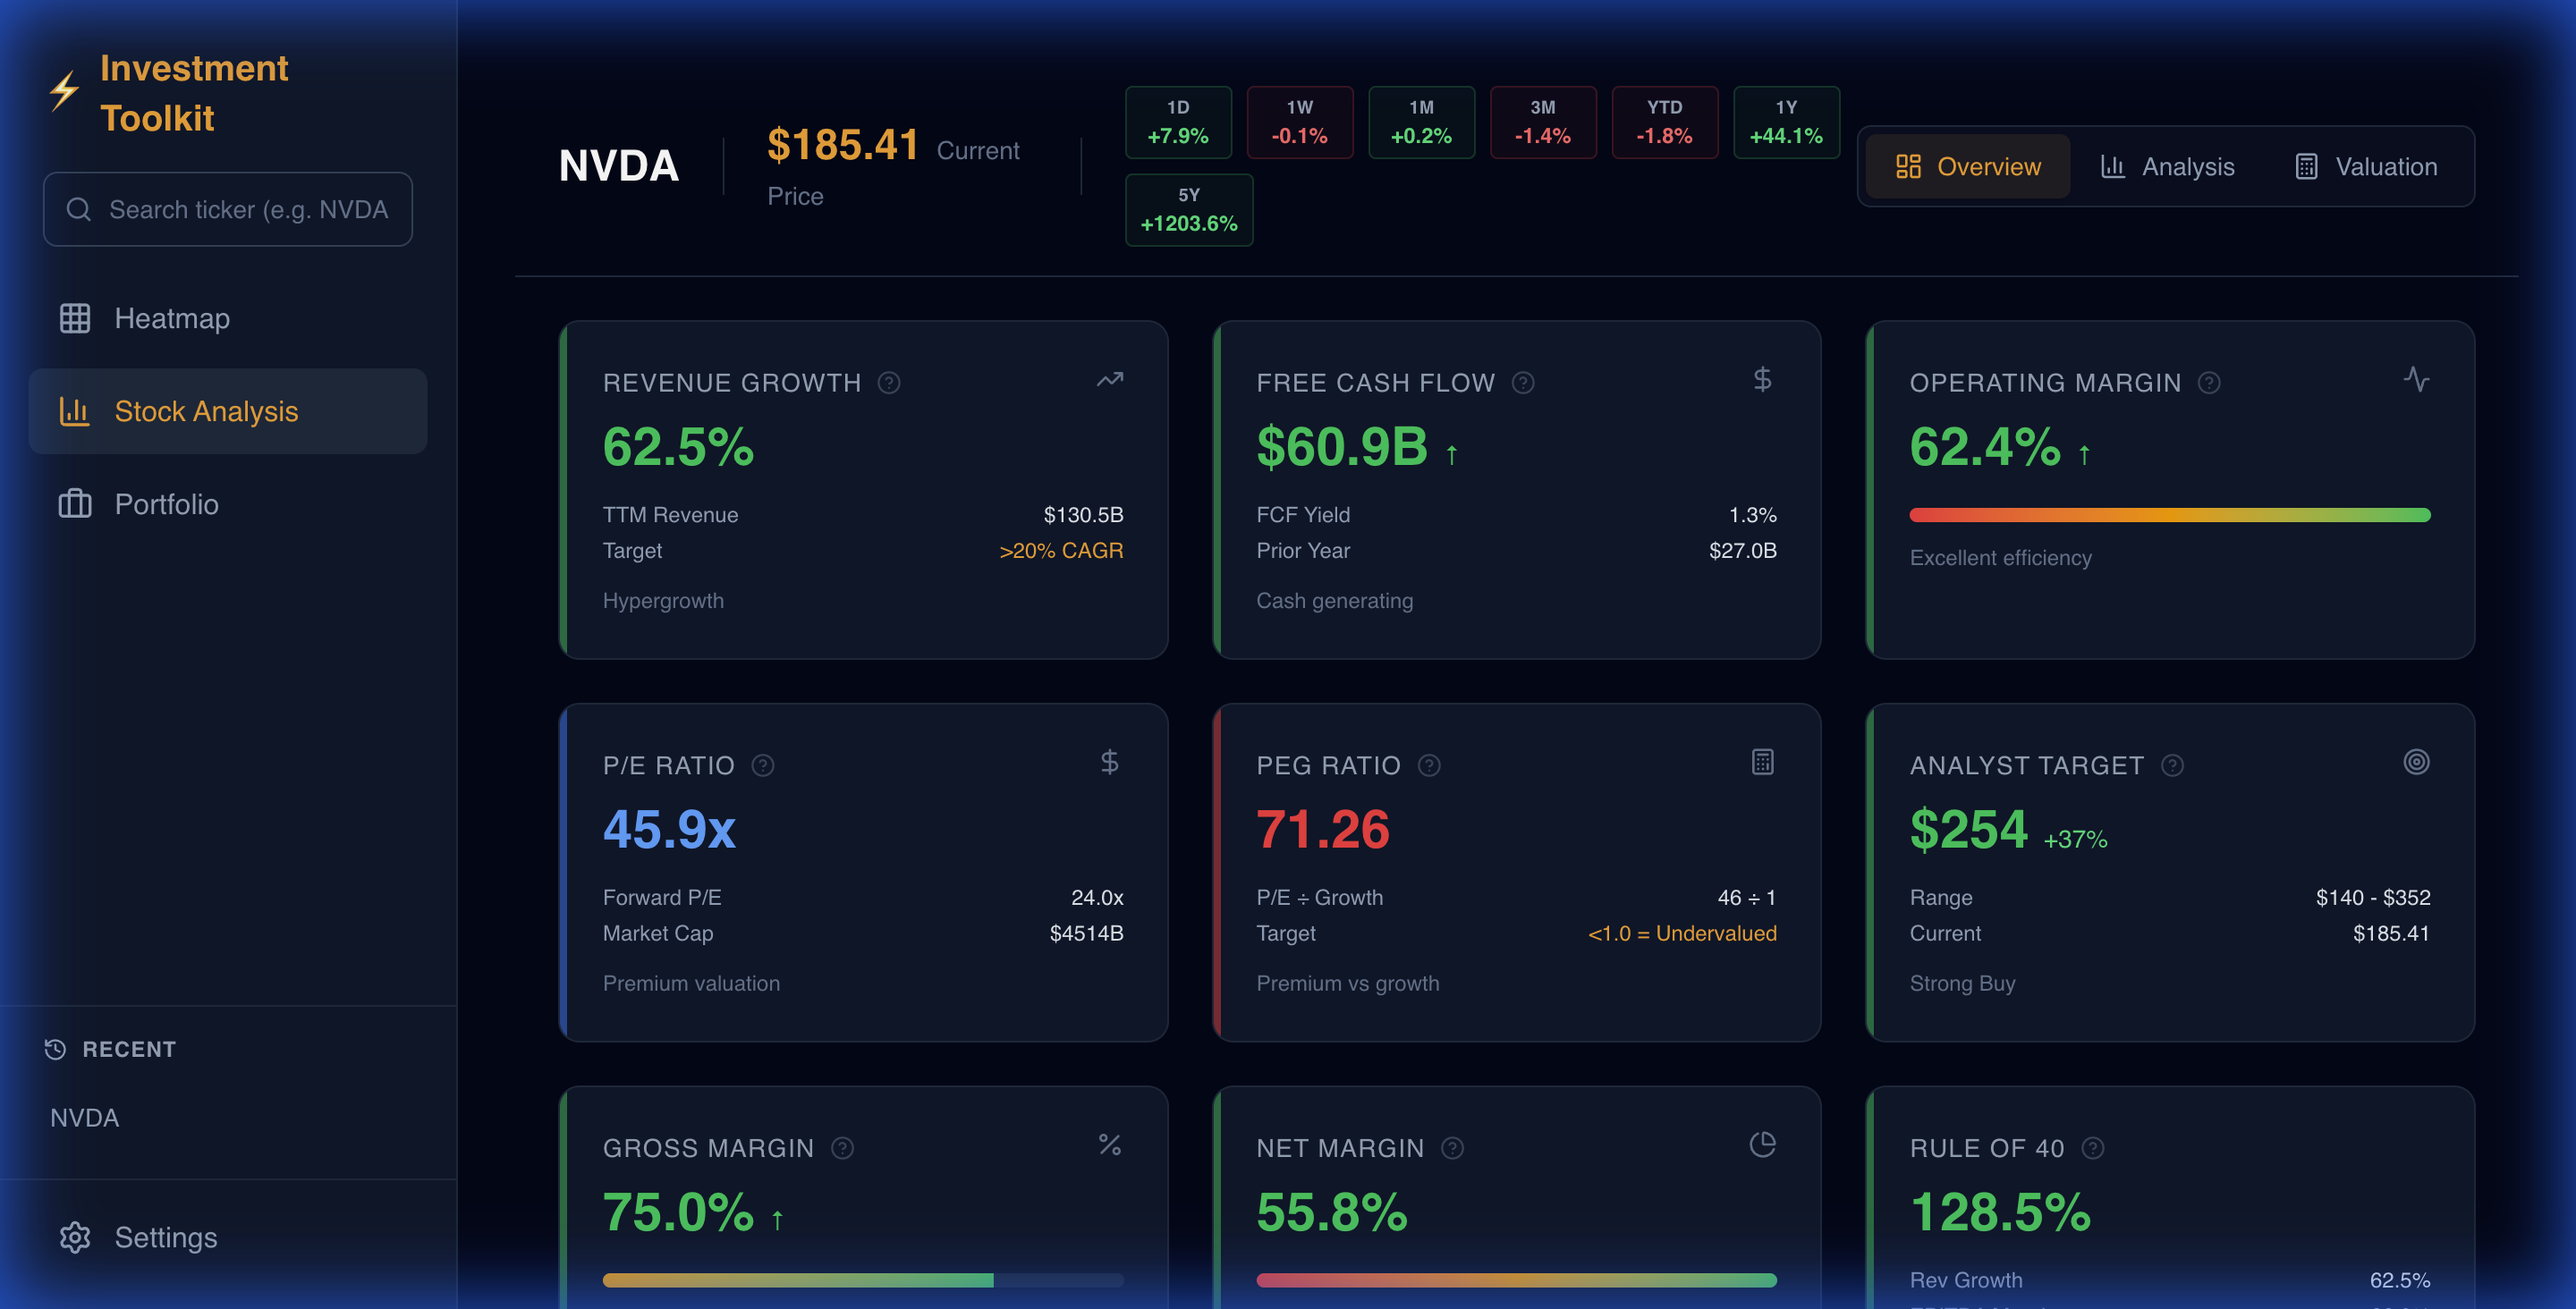
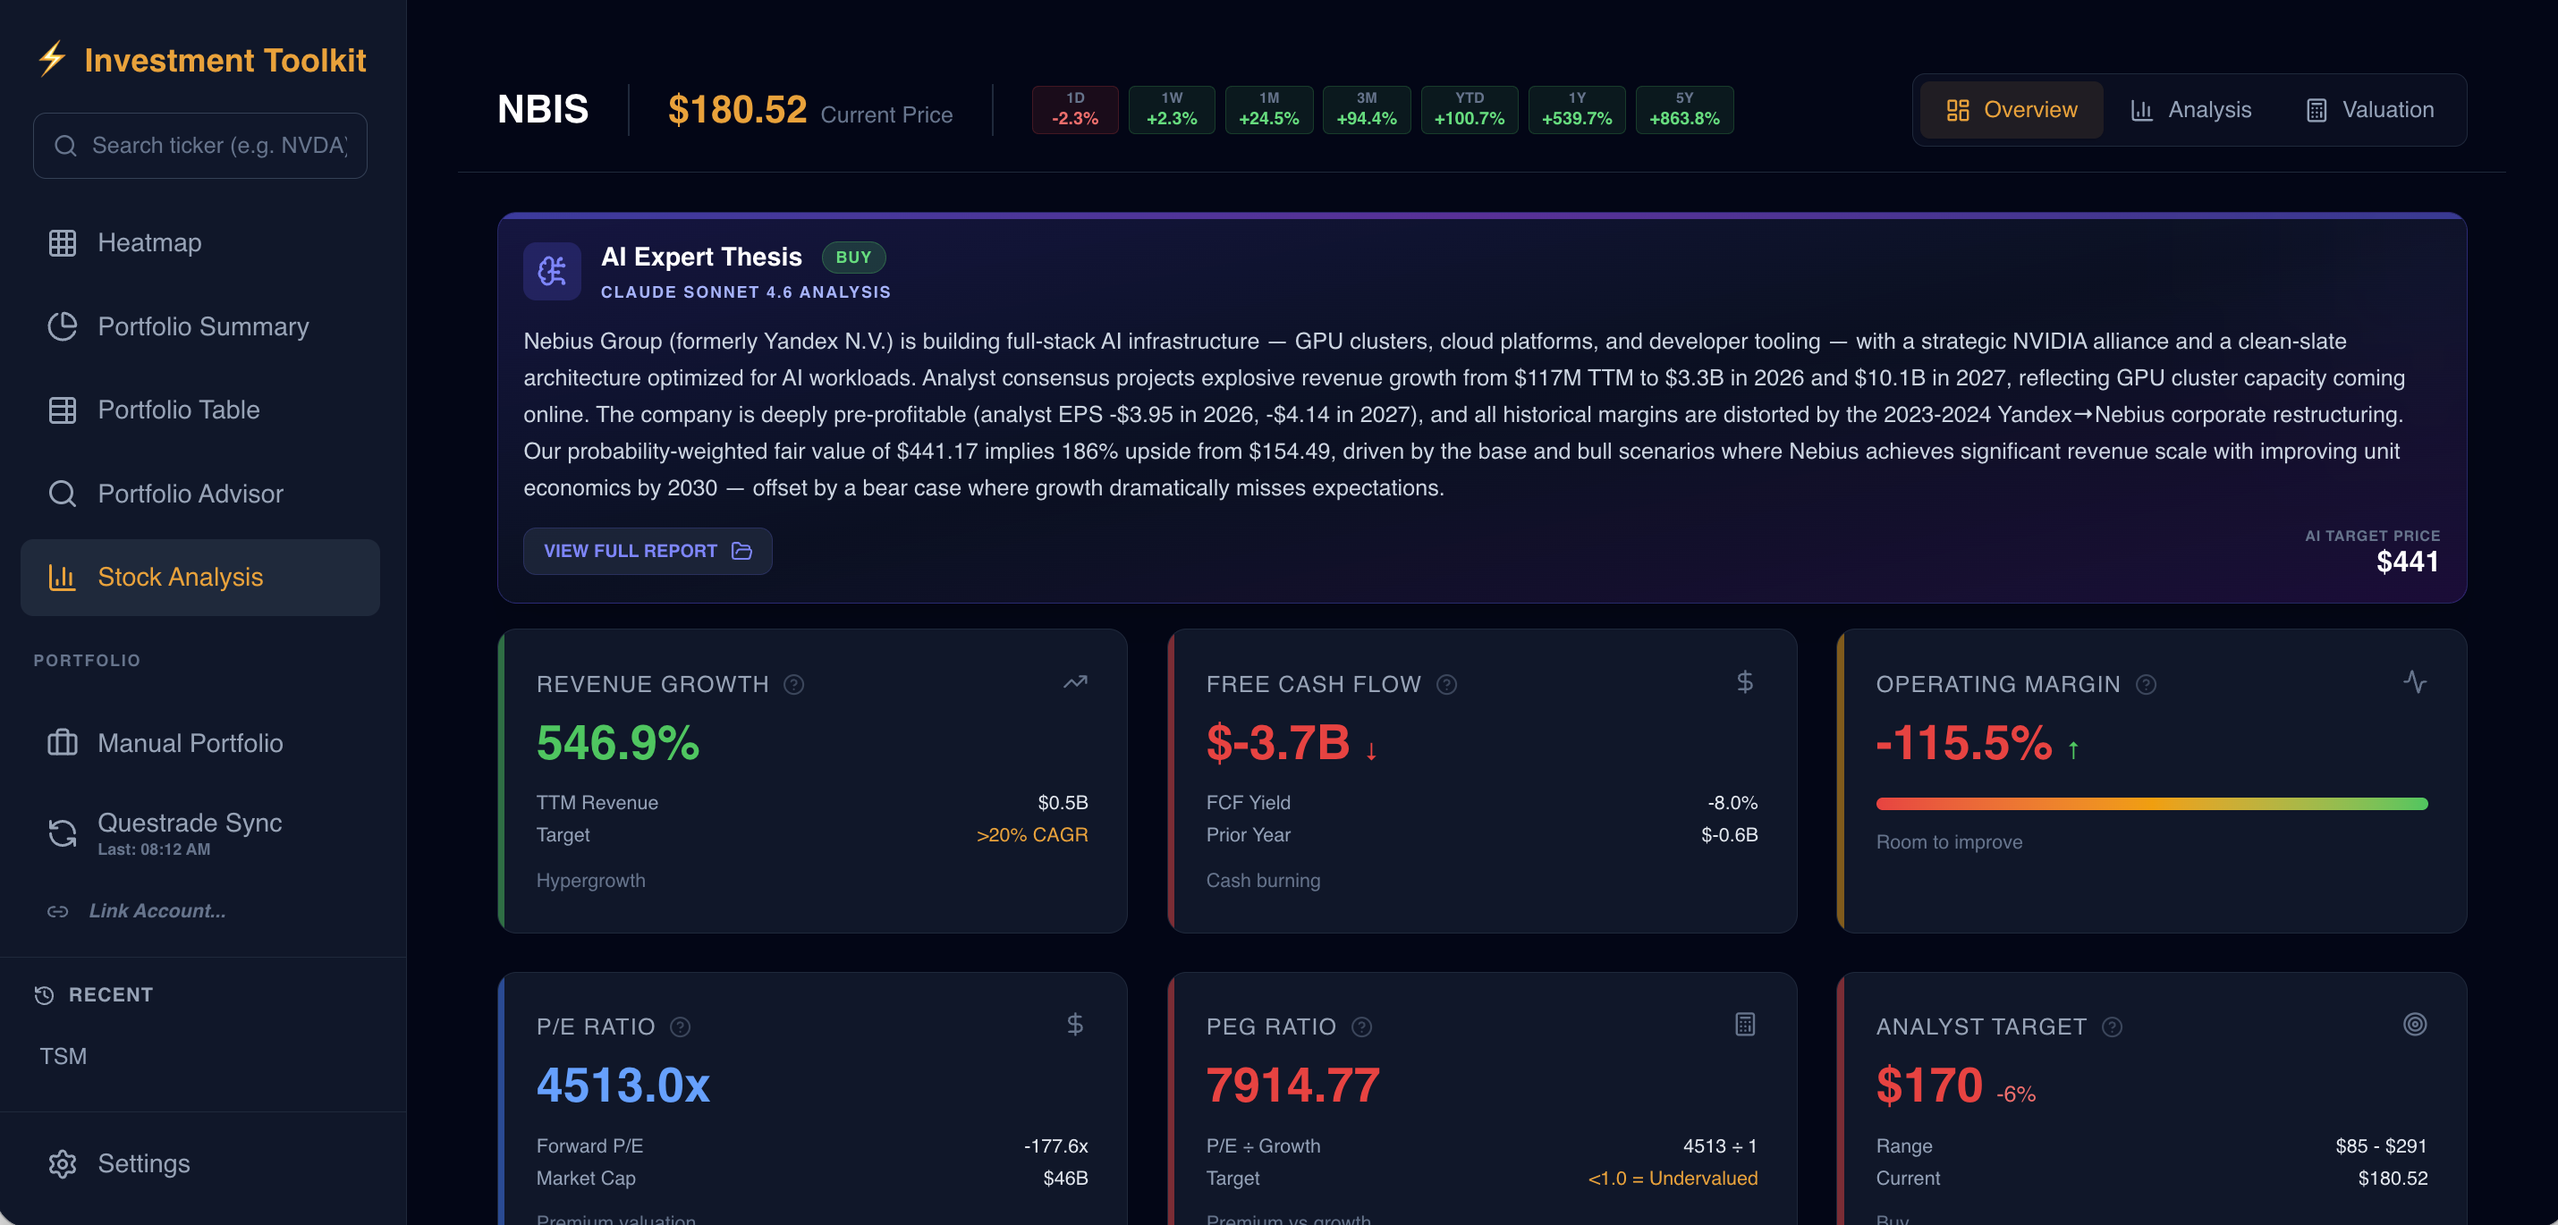
added tradingview plugin and skills

diff --git a/README.md b/README.md
@@ -77,7 +77,7 @@ A professional-grade brokerage sync engine featuring:
 | Market data | `yfinance` (historical + fundamentals) + TradingView Premium (real-time current price) |
 | Portfolio data | Questrade API (positions, cost basis) |
 | Schema | Zod validation — `lastActualPS` nullable-safe for pre-revenue stocks |
-| AI agents | Plugin architecture + Spec Kitty framework |
+| AI agents | Modular Plugin Architecture + Exploration Cycle workflow |
 
 ---
 
@@ -209,13 +209,15 @@ npm --prefix investment_screener run dev -w frontend
 
 ---
 
-## AI Development Framework
+## AI Development Architecture
 
-This project uses the **Spec Kitty** framework to systematize AI agent workflows.
-- **Specs**: `kitty-specs/`
-- **Plugins**: `plugins/` — commands, skills, scripts, documentation
-- **Harness**: Exploration-cycle plugin. See [`.agents/agents/exploration-cycle-plugin-intake-agent.md`](.agents/agents/exploration-cycle-plugin-intake-agent.md)
-- **Migration Guide**: [`plugins/MIGRATION_GUIDE.md`](plugins/MIGRATION_GUIDE.md)
+This project uses the **Exploration Cycle** architecture to systematize AI agent workflows, moving away from template-driven missions toward a modular, phase-gated development loop.
+
+- **Orchestration**: Managed via the `exploration-workflow` skill.
+- **Phases**: 4-phase loop (Discovery → Blueprinting → Prototyping → Handoff).
+- **Dashboard**: `exploration/exploration-dashboard.md` (state management).
+- **Plugins**: Modular AI logic housed in `plugins/`.
+- **Reference**: See ADR [022-exploration-cycle-pivot.md](docs/adrs/022-exploration-cycle-pivot.md) for the design rationale.
 
 ---
 

diff --git a/investment_screener/README.md b/investment_screener/README.md
@@ -47,20 +47,25 @@ Interactive scenario analysis with Bear/Base/Bull projections:
 
 ## Screenshots
 
+### Portfolio Summary
+![Portfolio Summary](assets/images/portfolio_summary.png)
+*(Total market value, performance metrics, and strategy allocation)*
+
+### Portfolio Table
+![Portfolio Table](assets/images/portfolio_table.png)
+*(Detailed positions view with real-time performance and fair value targets)*
+
 ### Stock Analysis & Metrics
 ![Analysis Metrics](assets/images/analysis_metrics.png)
 *(15+ Premium metrics including Rule of 40, Piotroski F-Score, and Analyst Targets)*
 
-### Historical Performance
-![Performance Charts](assets/images/analysis_charts.png)
+### Portfolio Advisor & Thesis Review
+![Thesis Review](assets/images/analysis_recommendations.png)
+*(Autonomous advisor proposing rebalance actions based on thesis alignment)*
 
-### Valuation Modeler
-![Valuation Modeler](assets/images/valuation_modeler.png)
-*(Interactive DCF modeling with sensitivity matrices)*
-
-### Market Heatmap
-![Market Heatmap](assets/images/heatmap.png)
-*(Real-time sector performance visualization)*
+### Investment Thesis
+![Investment Thesis](assets/images/thesis_overview.png)
+*(Living document tracking version history and core investment pillars)*
 
 ## Tech Stack
 
